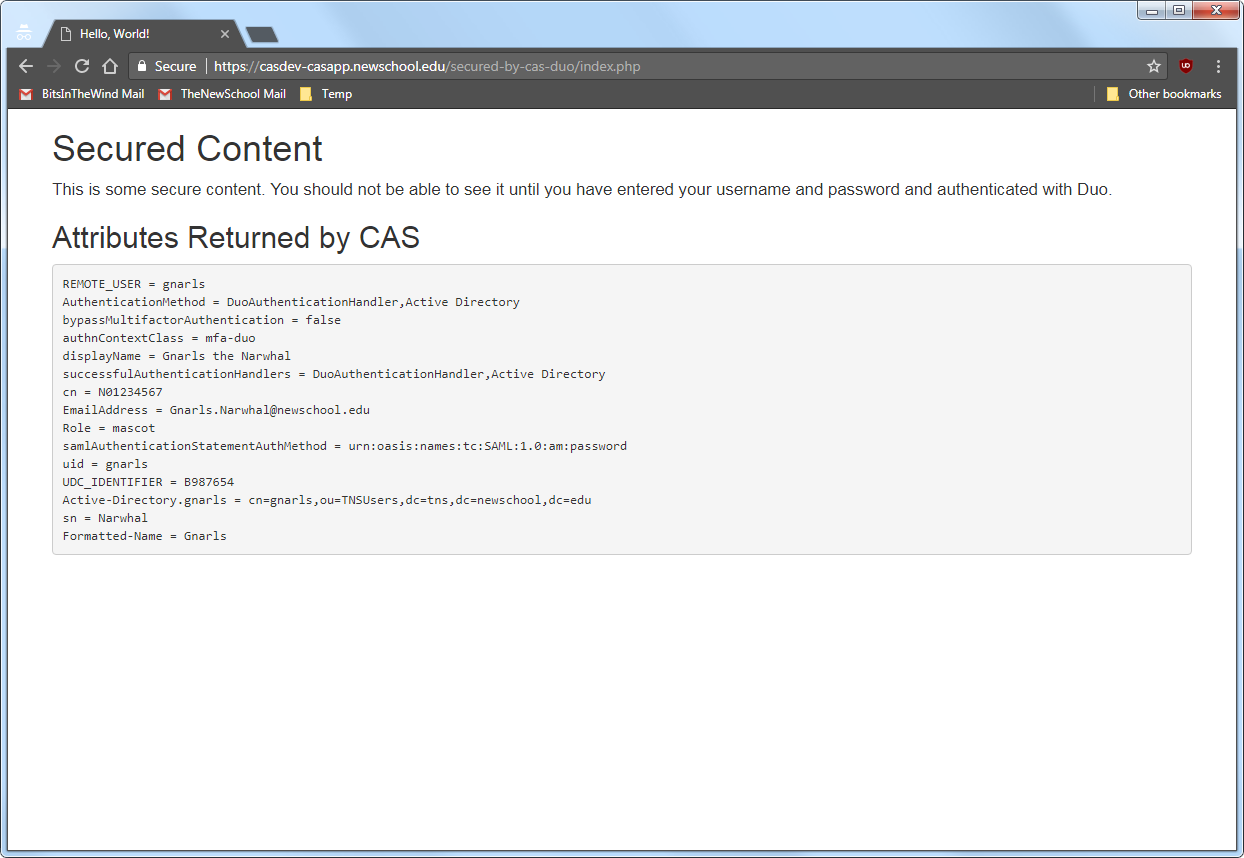
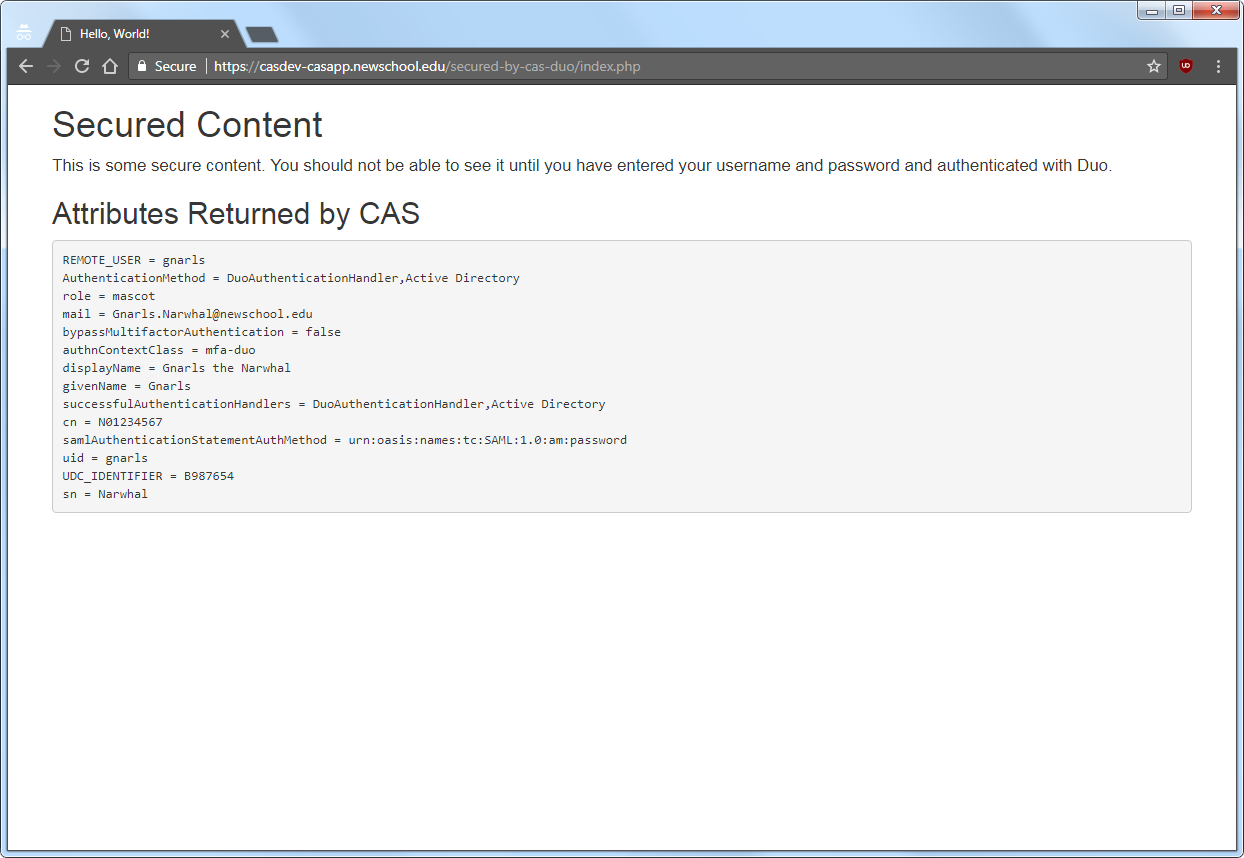
Moved weird Luminis LDAP attribute names to the service definition and created a new example for it.

Changed region(s): [[0.0, 0.0909, 1.0, 0.6364]]

diff --git a/pages/building/server/ldap/resolution-release/configure-attribute-resolution.md b/pages/building/server/ldap/resolution-release/configure-attribute-resolution.md
@@ -1,6 +1,6 @@
 ---
 title: Configure attribute resolution
-last_updated: September 1, 2017
+last_updated: September 29, 2017
 sidebar: main_sidebar
 permalink: building_server_ldap_resolution-release_configure-attribute-resolution.html
 summary:
@@ -21,16 +21,16 @@ cas.authn.attributeRepository.ldap[0].bindDn:           cn=ldap_ssotest,ou=Servi
 cas.authn.attributeRepository.ldap[0].bindCredential:   xxxxxxxxxxxx
 cas.authn.attributeRepository.ldap[0].attributes.cn:    uid
 cas.authn.attributeRepository.ldap[0].attributes.displayName:   displayName
-cas.authn.attributeRepository.ldap[0].attributes.givenName:     Formatted Name
-cas.authn.attributeRepository.ldap[0].attributes.mail:  EmailAddress
+cas.authn.attributeRepository.ldap[0].attributes.givenName:     givenName
+cas.authn.attributeRepository.ldap[0].attributes.mail:  mail
 cas.authn.attributeRepository.ldap[0].attributes.sn:    sn
-cas.authn.attributeRepository.ldap[0].attributes.tnsGoogleAppsRole:     Role
+cas.authn.attributeRepository.ldap[0].attributes.tnsGoogleAppsRole:     role
 cas.authn.attributeRepository.ldap[0].attributes.tnsIDNumber:   cn
 ```
 
 The first six properties should be self-explanatory (or see the descriptions in the previous sections). Note that while we did not need to use a bind account to authenticate users against Active Directory, we do need to use one to resolve attributes.
 
-The `.attributes.` properties specify, for each attribute, its name in the directory, and the name it should be given when sending it to the client application (the *mapped* name). For example, in the set of attributes above, the Active Directory attributes called `cn`, `displayName`, `givenName`, `mail`, `sn`, `tnsGoogleAppsRole`, and `tnsIDNumber` will be mapped to the names `uid`, `displayName`, `Formatted Name`, `EmailAddress`, `sn`, `Role`, and `cn` respectively when they are sent to client applications.
+The `.attributes.` properties specify, for each attribute, its name in the directory, and the name it should be given when sending it to the client application (the *mapped* name). For example, in the set of attributes above, the Active Directory attributes `cn`, `displayName`, `givenName`, `mail`, `sn`, `tnsGoogleAppsRole`, and `tnsIDNumber` will be retrieved and may be sent to client applications. The attributes named `cn`, `tnsGoogleAppsRole`, and `tnsIDNumber` will be released with the mapped names `uid`, `role`, and `cn` respectively, while the other attributes' names will not be changed.
 
 ## Configure Luminis LDAP attribute resolution
 
@@ -45,8 +45,8 @@ cas.authn.attributeRepository.ldap[1].bindDn:           uid=ldap_ssotest,ou=Peop
 cas.authn.attributeRepository.ldap[1].bindCredential:   xxxxxxxxxxxx
 cas.authn.attributeRepository.ldap[1].attributes.cn:    cn
 cas.authn.attributeRepository.ldap[1].attributes.displayName:   displayName
-cas.authn.attributeRepository.ldap[1].attributes.givenName:     Formatted Name
-cas.authn.attributeRepository.ldap[1].attributes.mail:  EmailAddress
+cas.authn.attributeRepository.ldap[1].attributes.givenName:     givenName
+cas.authn.attributeRepository.ldap[1].attributes.mail:  mail
 cas.authn.attributeRepository.ldap[1].attributes.sn:    sn
 cas.authn.attributeRepository.ldap[1].attributes.udcid: UDC_IDENTIFIER
 cas.authn.attributeRepository.ldap[1].attributes.uid:   uid
@@ -54,9 +54,9 @@ cas.authn.attributeRepository.ldap[1].attributes.uid:   uid
 
 As above, the first six properties should be self-explanatory. The list of attributes to be released is similar to, but not the same as, the list for Active Directory, above.
 
-One difference is that the two directories use different attributes for the same information. Luminis LDAP stores the username in the `uid` attribute and the student/employee ID number in the `cn` attribute. Active Directory on the other hand, stores the username in the `cn` attribute, and stores the student/employee ID number in a custom attribute called `tnsIDNumber`. To make things match up (the reason for this will become apparent below), the Active Directory configuration above switches things around to match Luminis LDAP by mapping `cn` to `uid` and `tnsIDNumber` as `cn`.
+One difference is that the two directories use different attributes for the same information. Luminis LDAP stores the username in the `uid` attribute and the student/employee ID number in the `cn` attribute. Active Directory on the other hand, stores the username in the `cn` attribute, and stores the student/employee ID number in a custom attribute called `tnsIDNumber`. To make things match up so the same data is in the same attribute from both directories (the reason for this will become apparent below), the Active Directory configuration above switches things around to match Luminis LDAP by mapping `cn` to `uid` and `tnsIDNumber` as `cn`.
 
-Another difference is that Active Directory has an attribute called `tnsGoogleAppsRole` (released as `Role`) that Luminis LDAP doesn't have, and Luminis LDAP has an attribute called `udcid` (released as `UDC_IDENTIFIER`) that Active Directory doesn't have.
+Another difference is that Active Directory has an attribute called `tnsGoogleAppsRole` (released as `role`) that Luminis LDAP doesn't have, and Luminis LDAP has an attribute called `udcid` (released as `UDC_IDENTIFIER`) that Active Directory doesn't have.
 
 ## Configure an attribute merging strategy
 
@@ -83,7 +83,7 @@ Although CAS will only authenticate a user against the first directory (accordin
     </tbody>
 </table>
 
-In our case, we have a mix of users who are in Active Directory only, users who are in Luminis LDAP only, and users who are in both directories. Most of the time the duplicated attributes have the same value in both directories, but there are just enough exceptions to make `MERGE` a bad idea (applications that don't expect to receive multi-valued attributes don't handle them well). We have therefore (somewhat arbitrarily) decided that for users in both directories, the values of their attributes in Active Directory should "win," and since Active Directory is the first repository, we want to use the `ADD` strategy. So, add the following line to `etc/cas/config/cas.properties`:
+In our case, we have a mix of users who are only in Active Directory, users who are only in Luminis LDAP, and users who are in both directories. Most of the time the duplicated attributes have the same value in both directories, but there are just enough exceptions to make `MERGE` a bad idea (applications that don't expect to receive multi-valued attributes don't handle them well). We have therefore (somewhat arbitrarily) decided that for users in both directories, the values of their attributes in Active Directory should "win," and since Active Directory is the first repository, we want to use the `ADD` strategy. So, add the following line to `etc/cas/config/cas.properties`:
 
 ```
 cas.authn.attributeRepository.merger:                   ADD

diff --git a/pages/building/server/ldap/resolution-release/update-the-service-registry.md b/pages/building/server/ldap/resolution-release/update-the-service-registry.md
@@ -1,6 +1,6 @@
 ---
 title: Update the service registry
-last_updated: September 26, 2017
+last_updated: September 29, 2017
 sidebar: main_sidebar
 permalink: building_server_ldap_resolution-release_update-the-service-registry.html
 summary:
@@ -37,7 +37,7 @@ The syntax for defining the above policies is defined in the CAS 5 *Attribute Re
 
 {% include note.html content="The `cas.authn.attributeRepository.defaultAttributesToRelease` property can be set in `cas.properties` to a comma-separated list of attributes that should be released to all services, without having to list them in every service definition. We are not using this feature in our installation, because it makes it harder to determine which attributes are released to a particular service (by requiring the administrator to look in more than one location)." %}
 
-## Create a service definition for the CAS client
+## Create a "return all attributes" service definition for the CAS client
 
 When we initially [created the service registry][building_server_service-registry_configure-the-service-registry], we created a wildcard service definition that would match any service. Now however, it makes sense to create a specific definition for our CAS client, and use that definition to release attributes to the client. Create a file in the `etc/cas/services` directory on the master build server (***casdev-master***) with the following contents:
 
@@ -79,6 +79,42 @@ This service definition uses a `description` property instead of a comment to de
 The `evaluationOrder` has been given a value lower than that of the wildcard definition, so this definition will be matched first.
 
 And finally, this definition includes the "Release All" `attributeReleasePolicy` property, which means that the CAS client will receive all attributes that could be resolved for the authenticating user.
+
+## Create a "return mapped attributes" service definition for the CAS client
+
+One of the applications that we use, Ellucian's Luminis portal, expects to receive a couple of attributes with names other than the ones commonly used: instead of a `mail` attribute, it expects to receive an `EmailAddress` attribute, and instead of a `givenName` attribute, it expects to receive a `Formatted Name` attribute (despite the fact that attribute names are not supposed to contain spaces). We could have made these mappings in the `cas.properties` file, but that would then require all applications to support these unusual attribute names. So instead, we will use the "Return Mapped" attribute release policy to perform the mapping only for this application.
+
+To test this idea with our CAS client, create a file in the `etc/cas/services` directory on the master build server (***casdev-master***) with the following contents:
+
+```json
+{
+  "@class" : "org.apereo.cas.services.RegexRegisteredService",
+  "serviceId" : "^https://casdev-casapp.newschool.edu/return-mapped(\\z|/.*)",
+  "name" : "Return Mapped Test",
+  "id" : 20170927092000,
+  "description" : "Display results of a Return Mapped attribute release policy",
+  "attributeReleasePolicy" : {
+    "@class" : "org.apereo.cas.services.ReturnMappedAttributeReleasePolicy",
+    "allowedAttributes" : {
+      "@class" : "java.util.TreeMap",
+      "cn" : "cn",
+      "displayName" : "displayName",
+      "givenName" : "Formatted Name",
+      "mail" : "EmailAddress",
+      "memberOf" : "memberOf",
+      "role" : "role",
+      "sn" : "sn",
+      "uid" : "uid",
+      "UDC_IDENTIFIER": "UDC_IDENTIFIER"
+    }
+  },
+  "evaluationOrder" : 1150
+}
+```
+
+The name of this file should be `ReturnMappedTest-20170927092000.json`. (Your `id`, and therefore that part of the filename, should use the current value for `YYYYMMDDhhmmss`.)
+
+In this definition, the `attributeReleasePolicy` property uses the `ReturnMappedAttributeReleasePolicy` instead of the `ReturnAllAttributeReleasePolicy`; this requires us to provide a new sub-property called `allowedAttributes` that contains the list of attributes to be released. For each attribute, the attribute's name (as set in `cas.properties`) appears on the left, and the name it should be released with (the *mapped* name) *for this application only* appears on the right.
 
 ## References
 

diff --git a/pages/building/server/ldap/resolution-release/update-the-cas-client-config.md b/pages/building/server/ldap/resolution-release/update-the-cas-client-config.md
@@ -12,9 +12,10 @@ Now that the CAS server has been configured to resolve attributes and release th
 
 Edit the file `/etc/httpd/conf.d/cas.conf` on the client server (***casdev-casapp*** ) and make the following changes:
 
-1. In the `<Directory>` directive, add a line to set `CASAuthNHeader` to `On`.
-2. At the bottom of the file, change the value of the `CASValidateURL` setting from `.../serviceValidate` to `.../samlValidate`.
-3. At the bottom of the file, add a line to set `CASValidateSAML` to `On`.
+1. In the `<Directory>` directive, add a line to set `CASAuthNHeader` to `On`. This tells `mod_auth_cas` to add an HTTP header containing the user returned by CAS.
+2. Add a second `<Directory>` directive, just like the first, except using the path `/var/www/html/return-mapped`
+2. At the bottom of the file, change the value of the `CASValidateURL` setting from `.../serviceValidate` to `.../samlValidate`. This is the endpoint provided by the server for authentcating users and returning attribues via SAML 1.1.
+3. At the bottom of the file, add a line to set `CASValidateSAML` to `On`. This tells `mod_auth_cas` to use SAML 1.1 to retrieve user attributes and store them as HTTP headers.
 
 The result should look like this:
 
@@ -22,6 +23,15 @@ The result should look like this:
 LoadModule auth_cas_module modules/mod_auth_cas.so
 
 <Directory "/var/www/html/secured-by-cas">
+    <IfModule mod_auth_cas.c>
+        AuthType        CAS
+        CASAuthNHeader  On
+    </IfModule>
+
+    Require valid-user
+</Directory>
+
+<Directory "/var/www/html/return-mapped">
     <IfModule mod_auth_cas.c>
         AuthType        CAS
         CASAuthNHeader  On
@@ -40,6 +50,54 @@ LoadModule auth_cas_module modules/mod_auth_cas.so
 </IfModule>
 ```
 
+## Create a new secure content area
+
+Make a copy of the existing secure content area on the client server (***casdev-casapp***):
+
+```console
+casdev-casapp# cd /var/www/html
+casdev-casapp# cp -rp secured-by-cas return-mapped
+```
+
+Then edit the file `return-mapped/index.html` and update the heading and paragraph of text to reflect the requirements to view it:
+
+```html
+<h1>Return Mapped Attributes</h1>
+<p><big>This is some secure content. You should not be able to see it
+ until you have entered your username and password. The attributes in
+ the list below should have their "new" names as a result of using a
+ "Return Mapped" attribute release policy.</big></p>
+```
+
+Leave the rest of the file unchanged.
+
+## Update the public content page
+
+Update `/var/www/html/index.php` to include a link to the new secure area:
+
+```html
+<!DOCTYPE html>
+<html lang="en">
+  <head>
+    <title>Hello, World!</title>
+    <meta charset="utf-8">
+    <meta name="viewport" content="width=device-width, initial-scale=1">
+    <link rel="stylesheet"
+      href="//maxcdn.bootstrapcdn.com/bootstrap/3.3.7/css/bootstrap.min.css">
+  </head>
+  <body>
+    <div class="container">
+      <h1>Hello, World!</h1>
+        <p><big>The quick brown fox jumped over the lazy dogs.</big></p>
+        <p><big>Click <a href="secured-by-cas/index.php">here</a> for some
+          content secured by username and password.</big></p>
+        <p><big>Click <a href="return-mapped/index.php">here</a> to see the
+          results of the "Return Mapped" attribute release policy.</big></p>
+    </div>
+  </body>
+</html>
+```
+
 ## Restart HTTPD
 
 Run the command
@@ -49,3 +107,9 @@ casdev-casapp# systemctl restart httpd
 ```
 
 to restart the HTTPD server with the new configuration. Check the log files in `/var/log/httpd` for errors.
+
+## References
+
+* [GitHub repo for `mod_auth_cas`][mod_auth_cas]
+
+{% include reflinks.md %}

diff --git a/pages/building/server/ldap/resolution-release/install-and-test-the-application.md b/pages/building/server/ldap/resolution-release/install-and-test-the-application.md
@@ -1,6 +1,6 @@
 ---
 title: Install and test the application
-last_updated: September 26, 2017
+last_updated: September 29, 2017
 sidebar: main_sidebar
 permalink: building_server_ldap_resolution-release_install-and-test-the-application.html
 summary:
@@ -61,9 +61,9 @@ The contents of `/var/www/html/index.php` should be displayed, looking something
 
 {% include image.html file="building/server/resolution-release/fig10-the-public-site.png" alt="Browser Screen Shot" caption="Figure 10. The \"public\" site" %}
 
-## Access the secure area
+## Access the "return all attributes" secure area
 
-Click on the "here" link to access the secure content, and you will be redirected to the CAS server login page, as shown below:
+Click on the first "here" link to access the "release all attributes" secure content, and you will be redirected to the CAS server login page, as shown below:
 
 {% include image.html file="building/server/resolution-release/fig11-the-cas-login-page.png" alt="Browser Screen Shot" caption="Figure 11. The CAS login page" %}
 
@@ -72,6 +72,14 @@ Note that the contents of the `name` field from the service registry are display
 {% include image.html file="building/server/resolution-release/fig12-the-secure-content.png" alt="Browser Screen Shot" caption="Figure 12. The \"secure\" content" %}
 
 Note that the value shown for the `REMOTE_USER` variable is the username that was entered on the CAS login page (`gnarls`), and that the attributes [configured for release][building_server_ldap_resolution-release_configure-attribute-resolution] are all shown, along with some additional values provided as part of the SAML 1.1 response from the CAS server.
+
+## Access the "return mapped attributes" secure area
+
+Click the "back" button in the browser a couple of times (or start up a new one in "incognito" or "private browsing" mode) to get back to the "public" page shown in Figure 10, and then click on the second "here" link to access the "return mapped attributes" secure area, which will display the contents of `/var/www/html/return-mapped/index.php`:
+
+{% include image.html file="building/server/resolution-release/fig13-the-mapped-content.png" alt="Browser Screen Shot" caption="Figure 13. The \"mapped\" content" %}
+
+Note that the `mail` and `givenName` attributes have been replaced with `EmailAddress` and `Formatted-Name` (spaces in attributed names are not allowed, so a '-' is inserted), but the values of the attributes are the same.
 
 ## Restart the pool servers
 

diff --git a/pages/building/server/mfa/install-and-test-the-application.md b/pages/building/server/mfa/install-and-test-the-application.md
@@ -1,6 +1,6 @@
 ---
 title: Install and test the application
-last_updated: September 26, 2017
+last_updated: September 29, 2017
 sidebar: main_sidebar
 permalink: building_server_mfa_install-and-test-the-application.html
 summary:
@@ -59,21 +59,21 @@ https://casdev-casapp.newschool.edu/
 
 The contents of `/var/www/html/index.php` should be displayed, looking something like this:
 
-{% include image.html file="building/server/mfa/fig13-the-public-site.png" alt="Browser Screen Shot" caption="Figure 13. The \"public\" site" %}
+{% include image.html file="building/server/mfa/fig14-the-public-site.png" alt="Browser Screen Shot" caption="Figure 14. The \"public\" site" %}
 
 ## Access the secure area
 
 Click on the second "here" link to access the content secured by CAS and Duo, and you will be redirected to the CAS server login page, as shown below:
 
-{% include image.html file="building/server/mfa/fig14-the-cas-login-page.png" alt="Browser Screen Shot" caption="Figure 14. The CAS login page" %}
+{% include image.html file="building/server/mfa/fig15-the-cas-login-page.png" alt="Browser Screen Shot" caption="Figure 15. The CAS login page" %}
 
 Note that the contents of the `name` field from the service registry are displayed at the top of the right-hand column; make sure that `Apache Secured by CAS and Duo` is displayed here. Enter a valid username and password (Active Directory or LDAP) that is also registered with Duo and, upon successful first-stage authentication, the Duo MFA authentication page will appear, as shown below:
 
-{% include image.html file="building/server/mfa/fig15-the-duo-authentication-page.png" alt="Browser Screen Shot" caption="Figure 15. The Duo authentication page" %}
+{% include image.html file="building/server/mfa/fig16-the-duo-authentication-page.png" alt="Browser Screen Shot" caption="Figure 16. The Duo authentication page" %}
 
 Upon successful Duo authentication, the contents of `/var/www/html/secured-by-cas-duo/index.php` will be displayed:
 
-{% include image.html file="building/server/mfa/fig16-the-secure-content.png" alt="Browser Screen Shot" caption="Figure 16. The \"secure\" content" %}
+{% include image.html file="building/server/mfa/fig17-the-secure-content.png" alt="Browser Screen Shot" caption="Figure 17. The \"secure\" content" %}
 
 ## Restart the pool servers
 

diff --git a/pages/building/server/mfa/update-the-cas-client-config.md b/pages/building/server/mfa/update-the-cas-client-config.md
@@ -1,6 +1,6 @@
 ---
 title: Update the CAS client configuration
-last_updated: September 1, 2017
+last_updated: September 29, 2017
 sidebar: main_sidebar
 permalink: building_server_mfa_update-the-cas-client-config.html
 summary:
@@ -29,20 +29,9 @@ Leave the rest of the file unchanged.
 
 ## Update `mod_auth_cas` settings
 
-Edit the file `/etc/httpd/conf.d/cas.conf` on the client server (***casdev-casapp***) and duplicate the `<Directory>` element for the new secure content area created above:
+Edit the file `/etc/httpd/conf.d/cas.conf` on the client server (***casdev-casapp***) and create another `<Directory>` element for the new secure content area created above:
 
 ```apache
-LoadModule auth_cas_module modules/mod_auth_cas.so
-
-<Directory "/var/www/html/secured-by-cas">
-    <IfModule mod_auth_cas.c>
-        AuthType        CAS
-        CASAuthNHeader  On
-    </IfModule>
-
-    Require valid-user
-</Directory>
-
 <Directory "/var/www/html/secured-by-cas-duo">
     <IfModule mod_auth_cas.c>
         AuthType        CAS
@@ -51,16 +40,10 @@ LoadModule auth_cas_module modules/mod_auth_cas.so
 
     Require valid-user
 </Directory>
-
-<IfModule mod_auth_cas.c>
-    CASLoginUrl           https://casdev.newschool.edu/cas/login
-    CASValidateUrl        https://casdev.newschool.edu/cas/samlValidate
-    CASCookiePath         /var/cache/httpd/mod_auth_cas/
-    CASValidateSAML       On
-    CASSSOEnabled         On
-    CASDebug              Off
-</IfModule>
 ```
+
+Except for the path name of the directory, it should be identical to the other `<Directory>` elements.
+
 ## Update the public content page
 
 Update `/var/www/html/index.php` to include a link to the new secure area:
@@ -81,6 +64,8 @@ Update `/var/www/html/index.php` to include a link to the new secure area:
         <p><big>The quick brown fox jumped over the lazy dogs.</big></p>
         <p><big>Click <a href="secured-by-cas/index.php">here</a> for some
           content secured by username and password.</big></p>
+        <p><big>Click <a href="return-mapped/index.php">here</a> to see the
+          results of the "Return Mapped" attribute release policy.</big></p>
         <p><big>Click <a href="secured-by-cas-duo/index.php">here</a> for some
           content secured by username/password and Duo MFA.</big></p>
     </div>
